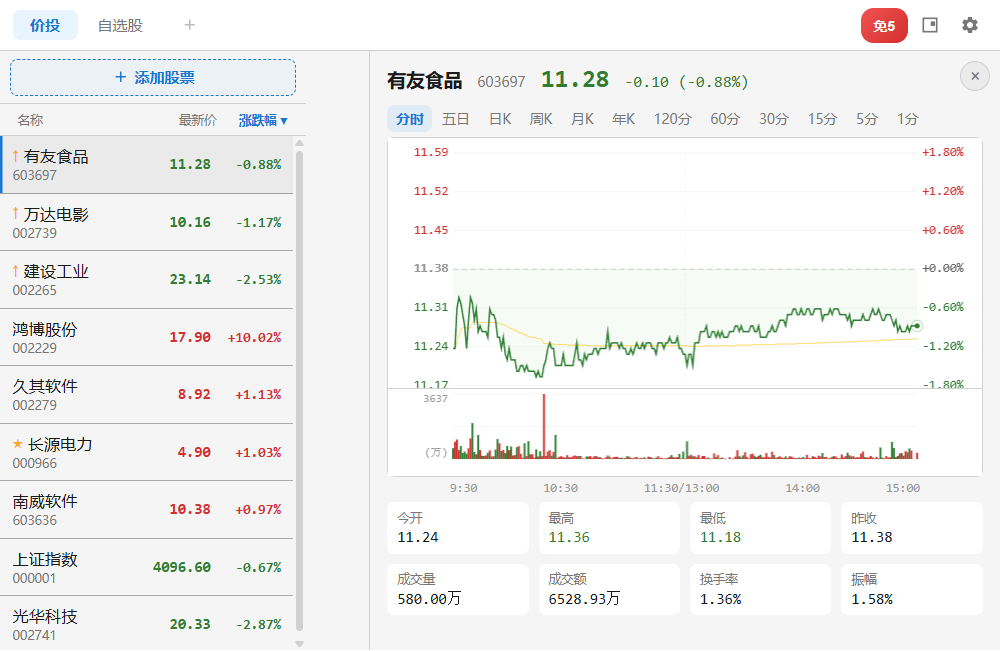
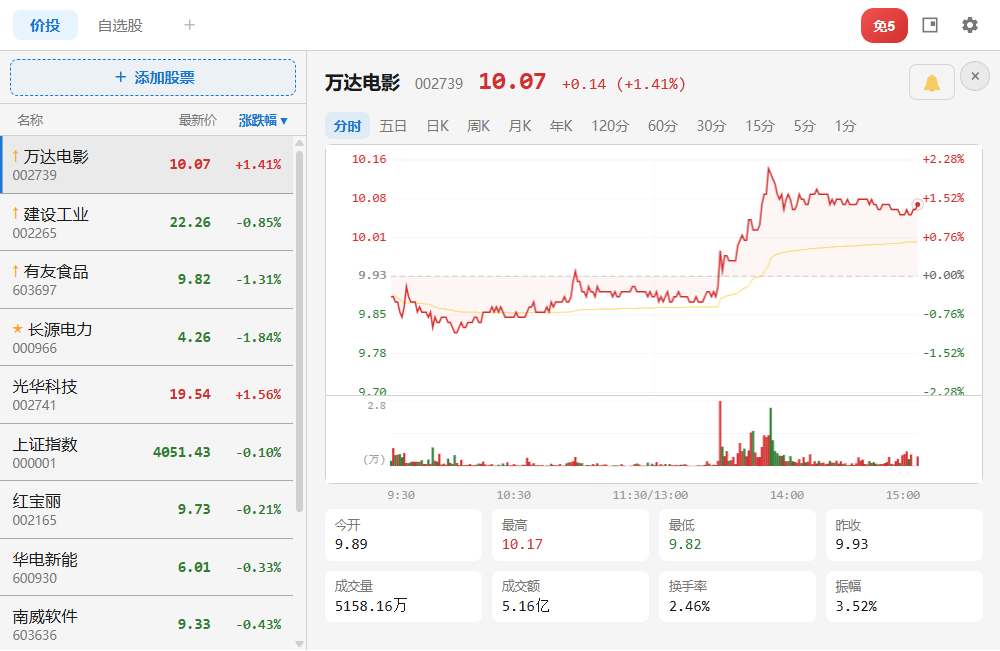
插件说明添加  - 更换说明图片  - 添加免5说明

diff --git a/docs/index.html b/docs/index.html
@@ -20,6 +20,7 @@
       --yellow: #9a6700;
     }
     * { margin: 0; padding: 0; box-sizing: border-box; }
+    html { scroll-behavior: smooth; }
     body {
       font-family: -apple-system, BlinkMacSystemFont, 'Segoe UI', 'PingFang SC', 'Microsoft YaHei', sans-serif;
       background: var(--bg);
@@ -28,6 +29,57 @@
     }
     a { color: var(--blue); text-decoration: none; }
     a:hover { text-decoration: underline; }
+
+    .page-shell {
+      display: grid;
+      grid-template-columns: minmax(180px, 220px) minmax(0, 1fr);
+      gap: 0 28px;
+      max-width: 1180px;
+      margin: 0 auto;
+      padding: 0 20px;
+      align-items: start;
+    }
+    .page-content { min-width: 0; }
+    .doc-nav {
+      position: sticky;
+      top: 0;
+      align-self: start;
+      max-height: 100vh;
+      overflow-y: auto;
+      padding: 20px 0 24px;
+      border-right: 1px solid var(--border);
+    }
+    .doc-nav-title {
+      font-size: 12px;
+      font-weight: 700;
+      letter-spacing: 0.04em;
+      color: var(--text-secondary);
+      text-transform: uppercase;
+      margin-bottom: 12px;
+      padding: 0 4px 0 12px;
+    }
+    .doc-nav ul { list-style: none; }
+    .doc-nav li { margin: 0; }
+    .doc-nav a {
+      display: block;
+      padding: 10px 12px;
+      margin: 2px 0;
+      border-radius: 8px;
+      font-size: 14px;
+      font-weight: 500;
+      color: var(--text);
+      text-decoration: none;
+      border-left: 3px solid transparent;
+    }
+    .doc-nav a:hover {
+      background: var(--surface);
+      color: var(--blue);
+      text-decoration: none;
+    }
+    #plugin-intro,
+    #mian5-intro {
+      scroll-margin-top: 16px;
+    }
 
     .hero {
       text-align: center;
@@ -155,6 +207,116 @@
     .step h4 { font-size: 14px; margin-bottom: 6px; }
     .step p { font-size: 12px; color: var(--text-secondary); }
 
+    .mian5-section {
+      background: var(--surface);
+      border-radius: 12px;
+      border: 1px solid var(--border);
+      padding: 28px 32px;
+      max-width: 100%;
+      margin: 0 auto;
+    }
+    .mian5-subtitle {
+      text-align: center;
+      font-size: 16px;
+      font-weight: 600;
+      color: var(--text);
+      margin: 0 0 16px;
+    }
+    .mian5-disclaimer {
+      border: 1px solid var(--border);
+      background: var(--card);
+      padding: 12px 14px;
+      font-size: 13px;
+      color: var(--text-secondary);
+      border-radius: 8px;
+      margin-bottom: 18px;
+      line-height: 1.65;
+    }
+    .mian5-table-wrap {
+      overflow-x: auto;
+      margin-bottom: 24px;
+      -webkit-overflow-scrolling: touch;
+      border-radius: 8px;
+      border: 1px solid var(--border);
+    }
+    .mian5-table {
+      width: 100%;
+      min-width: 560px;
+      border-collapse: collapse;
+      font-size: 13px;
+      background: var(--card);
+    }
+    .mian5-table th,
+    .mian5-table td {
+      border: 1px solid var(--border);
+      padding: 10px 12px;
+      text-align: left;
+      vertical-align: top;
+      line-height: 1.5;
+    }
+    .mian5-table th {
+      background: #f0f3f6;
+      font-weight: 600;
+      color: var(--text);
+      white-space: nowrap;
+    }
+    .mian5-table td:first-child { font-weight: 600; white-space: nowrap; }
+    .mian5-explain {
+      margin-top: 8px;
+      padding-top: 22px;
+      border-top: 1px solid var(--border);
+    }
+    .mian5-section h3 {
+      font-size: 17px;
+      font-weight: 700;
+      color: var(--blue);
+      margin-bottom: 16px;
+      text-align: center;
+    }
+    .mian5-formula {
+      font-size: 15px;
+      color: var(--text);
+      margin-bottom: 18px;
+      text-align: center;
+      line-height: 1.6;
+    }
+    .mian5-compare {
+      display: grid;
+      gap: 12px;
+      margin-bottom: 18px;
+    }
+    @media (min-width: 560px) {
+      .mian5-compare {
+        grid-template-columns: 1fr 1fr;
+        gap: 16px;
+      }
+    }
+    .mian5-item {
+      background: var(--card);
+      border: 1px solid var(--border);
+      border-radius: 10px;
+      padding: 14px 16px;
+    }
+    .mian5-tag {
+      display: inline-block;
+      font-size: 12px;
+      font-weight: 700;
+      padding: 3px 10px;
+      border-radius: 4px;
+      color: #fff;
+      margin-bottom: 8px;
+    }
+    .mian5-tag--yes { background: var(--green); }
+    .mian5-tag--no { background: var(--red); }
+    .mian5-item p { font-size: 14px; color: var(--text); margin: 0; line-height: 1.55; }
+    .mian5-footnote {
+      font-size: 13px;
+      color: var(--text-secondary);
+      text-align: center;
+      line-height: 1.6;
+      margin: 0;
+    }
+
     .privacy-section {
       background: var(--surface);
       border-radius: 12px;
@@ -194,6 +356,42 @@
       border-top: 1px solid var(--border);
     }
 
+    @media (max-width: 900px) {
+      .page-shell {
+        grid-template-columns: 1fr;
+        padding: 0 16px;
+        gap: 0;
+      }
+      .doc-nav {
+        position: static;
+        max-height: none;
+        overflow: visible;
+        border-right: none;
+        border-bottom: 1px solid var(--border);
+        padding: 12px 0 14px;
+      }
+      .doc-nav-title {
+        padding-left: 0;
+        margin-bottom: 8px;
+      }
+      .doc-nav ul {
+        display: flex;
+        flex-wrap: wrap;
+        gap: 8px;
+      }
+      .doc-nav a {
+        display: inline-block;
+        margin: 0;
+        padding: 8px 14px;
+        border: 1px solid var(--border);
+        border-left: 1px solid var(--border);
+        background: var(--surface);
+      }
+      .doc-nav a:hover {
+        border-color: var(--blue);
+      }
+    }
+
     @media (max-width: 600px) {
       .hero { padding: 50px 16px 40px; }
       .hero h1 { font-size: 26px; }
@@ -204,6 +402,19 @@
 </head>
 <body>
 
+  <div class="page-shell">
+    <aside class="doc-nav" aria-label="页面目录">
+      <nav>
+        <p class="doc-nav-title">目录</p>
+        <ul>
+          <li><a href="#plugin-intro">插件介绍</a></li>
+          <li><a href="#mian5-intro">免5介绍</a></li>
+        </ul>
+      </nav>
+    </aside>
+    <div class="page-content">
+
+  <div id="plugin-intro">
   <!-- Hero -->
   <section class="hero">
     <div class="hero-logo">S</div>
@@ -278,7 +489,7 @@
     <img src="screenshots/popup-main.png" alt="股票易主界面 - A股实时行情">
     <p class="caption">主界面：自选股列表 + 大盘指数侧栏</p>
     <img src="screenshots/popup-detail.png" alt="股票易个股详情 - 分时K线">
-    <p class="caption">个股详情：分时走势 / 多周期K线</p>
+    <p class="caption">个股详情：分时走势 / 多周期K线 / 个股提醒设置（图片小铃铛处）</p>
     <img src="screenshots/mini-window.png" alt="股票易迷你窗口" style="max-width:280px;">
     <p class="caption">迷你悬浮窗口：紧凑盯盘</p>
   </section>
@@ -326,15 +537,100 @@
     <p>免费安装，轻松盯盘，让投资更高效</p>
     <a class="btn btn-primary" href="https://chromewebstore.google.com/detail/jjlfodcnodajninmaoioejmbinohfcml" target="_blank">立即安装</a>
   </section>
+  </div>
+
+  <!-- 免5说明 -->
+  <section id="mian5-intro" class="section">
+    <h2 class="section-title">免5说明</h2>
+    <div class="mian5-section">
+      <p class="mian5-subtitle">都支持同花顺 / 通达信</p>
+      <p class="mian5-disclaimer">开户佣金等政策可能随时变动，下表仅供参考。如需了解最新政策或协助开户，可加微信： <strong>avkfjl001</strong></p>
+      <div class="mian5-table-wrap">
+        <table class="mian5-table">
+          <thead>
+            <tr>
+              <th>券商</th>
+              <th>股票</th>
+              <th>ETF</th>
+              <th>调佣要求</th>
+              <th>优势</th>
+            </tr>
+          </thead>
+          <tbody>
+            <tr>
+              <td>YH证券</td>
+              <td>万0.86（5元起步）</td>
+              <td>万0.5免5</td>
+              <td>账户1.5万</td>
+              <td>网格、ETF党套利、纳指定投</td>
+            </tr>
+            <tr>
+              <td>GF证券</td>
+              <td>万0.691免5（5元起）</td>
+              <td>万0.5免5</td>
+              <td>账户2万</td>
+              <td>一线券商费率很低</td>
+            </tr>
+            <tr>
+              <td>GT证券</td>
+              <td>万0.9免5</td>
+              <td>万0.5免5</td>
+              <td>账户12万</td>
+              <td>前3券商上市知名</td>
+            </tr>
+            <tr>
+              <td>GT证券</td>
+              <td>万0.8免5</td>
+              <td>万0.5免5</td>
+              <td>账户50万</td>
+              <td>50万大资金最低费率</td>
+            </tr>
+            <tr>
+              <td>DB证券</td>
+              <td>万0.74免5</td>
+              <td>万0.5免5</td>
+              <td>账户32万</td>
+              <td>32万送QMT最低费率</td>
+            </tr>
+            <tr>
+              <td>PA证券</td>
+              <td>万0.8（5元起步）</td>
+              <td>万0.5</td>
+              <td>账户50万</td>
+              <td>两融3.58%超低两融</td>
+            </tr>
+          </tbody>
+        </table>
+      </div>
+      <div class="mian5-explain" id="mian5-example">
+        <h3>免5 vs 不免5 区别举例</h3>
+        <p class="mian5-formula">买1万元股票，手续费 = 1万 × 0.085% = 0.85 元</p>
+        <div class="mian5-compare">
+          <div class="mian5-item">
+            <span class="mian5-tag mian5-tag--yes">免5</span>
+            <p>实际收 0.85 元</p>
+          </div>
+          <div class="mian5-item">
+            <span class="mian5-tag mian5-tag--no">不免5</span>
+            <p>不足5元按5元收，实际收 5.00 元</p>
+          </div>
+        </div>
+        <p class="mian5-footnote">小资金、高频交易，免5一年可省数百数千元。</p>
+      </div>
+    </div>
+  </section>
 
   <footer>
     <p>© 2026 股票易 StockEasy. 行情数据来自东方财富，仅供参考，不构成投资建议。</p>
     <p style="margin-top:6px;">
       <a href="privacy-policy.html">隐私政策</a>
       &nbsp;·&nbsp;
-      <span>联系微信：rujg8888</span>
+      <span>联系微信：avkfjl001</span>
     </p>
   </footer>
+
+    </div>
+  </div>
 
 </body>
 </html>

diff --git a/docs/privacy-policy.html b/docs/privacy-policy.html
@@ -62,7 +62,7 @@
   <p>如隐私政策有变更，将在插件更新中说明。</p>
 
   <h2>联系我们</h2>
-  <p>如有问题，请通过微信联系：rujg8888</p>
+  <p>如有问题，请通过微信联系：avkfjl001</p>
 
   <hr>
 
@@ -101,6 +101,6 @@
   </ul>
 
   <h2>Contact</h2>
-  <p>For questions, reach us via WeChat: rujg8888</p>
+  <p>For questions, reach us via WeChat: avkfjl001</p>
 </body>
 </html>

diff --git a/docs/README.md b/docs/README.md
@@ -93,7 +93,7 @@
 
 如遇到问题或有功能建议，欢迎通过以下方式联系：
 
-- **微信**：rujg8888
+- **微信**：avkfjl001
 - **Gitee Issues**：在本仓库提交 Issue
 
 如果觉得好用，请到应用商店给个 **五星好评** ⭐，你的支持是我持续更新的动力！
